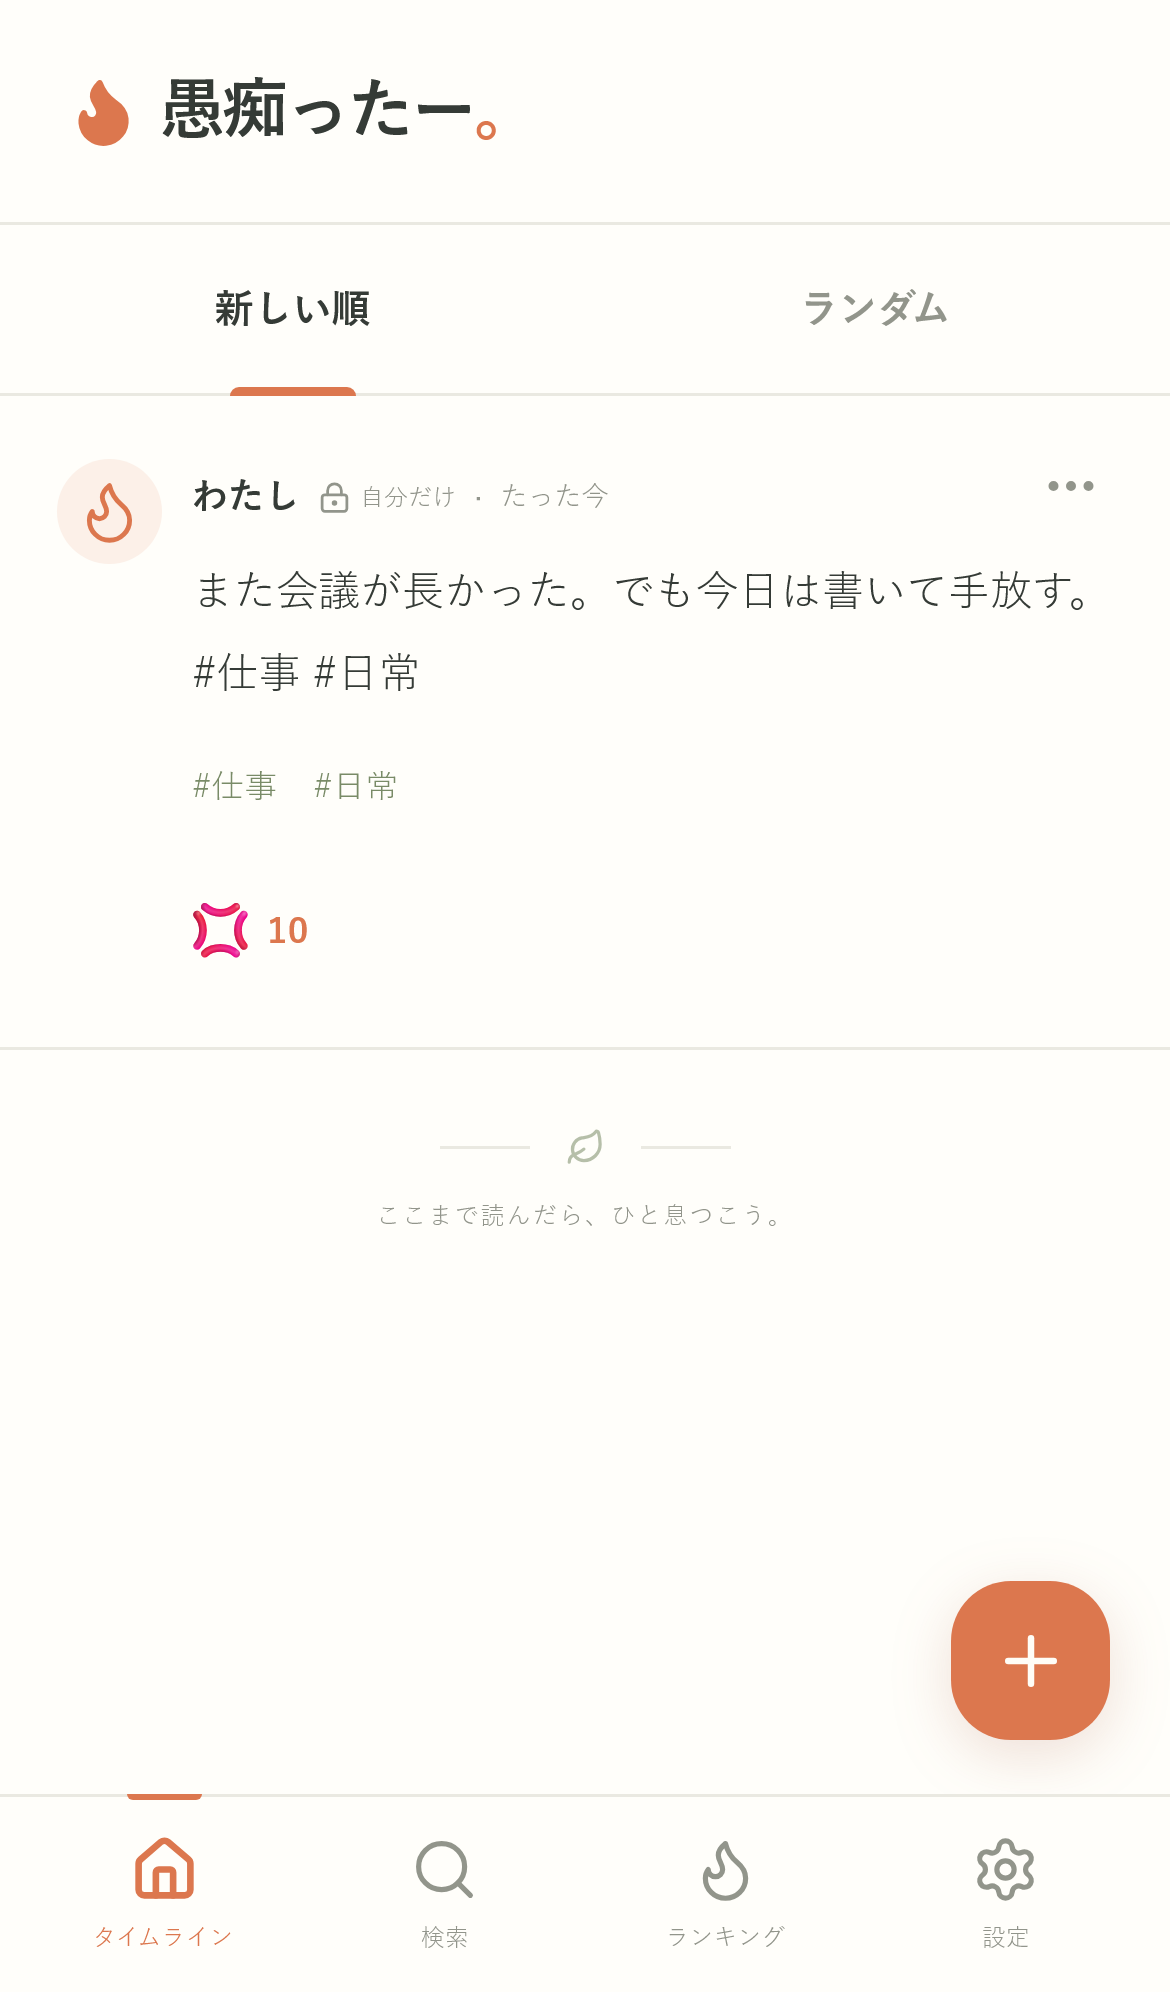
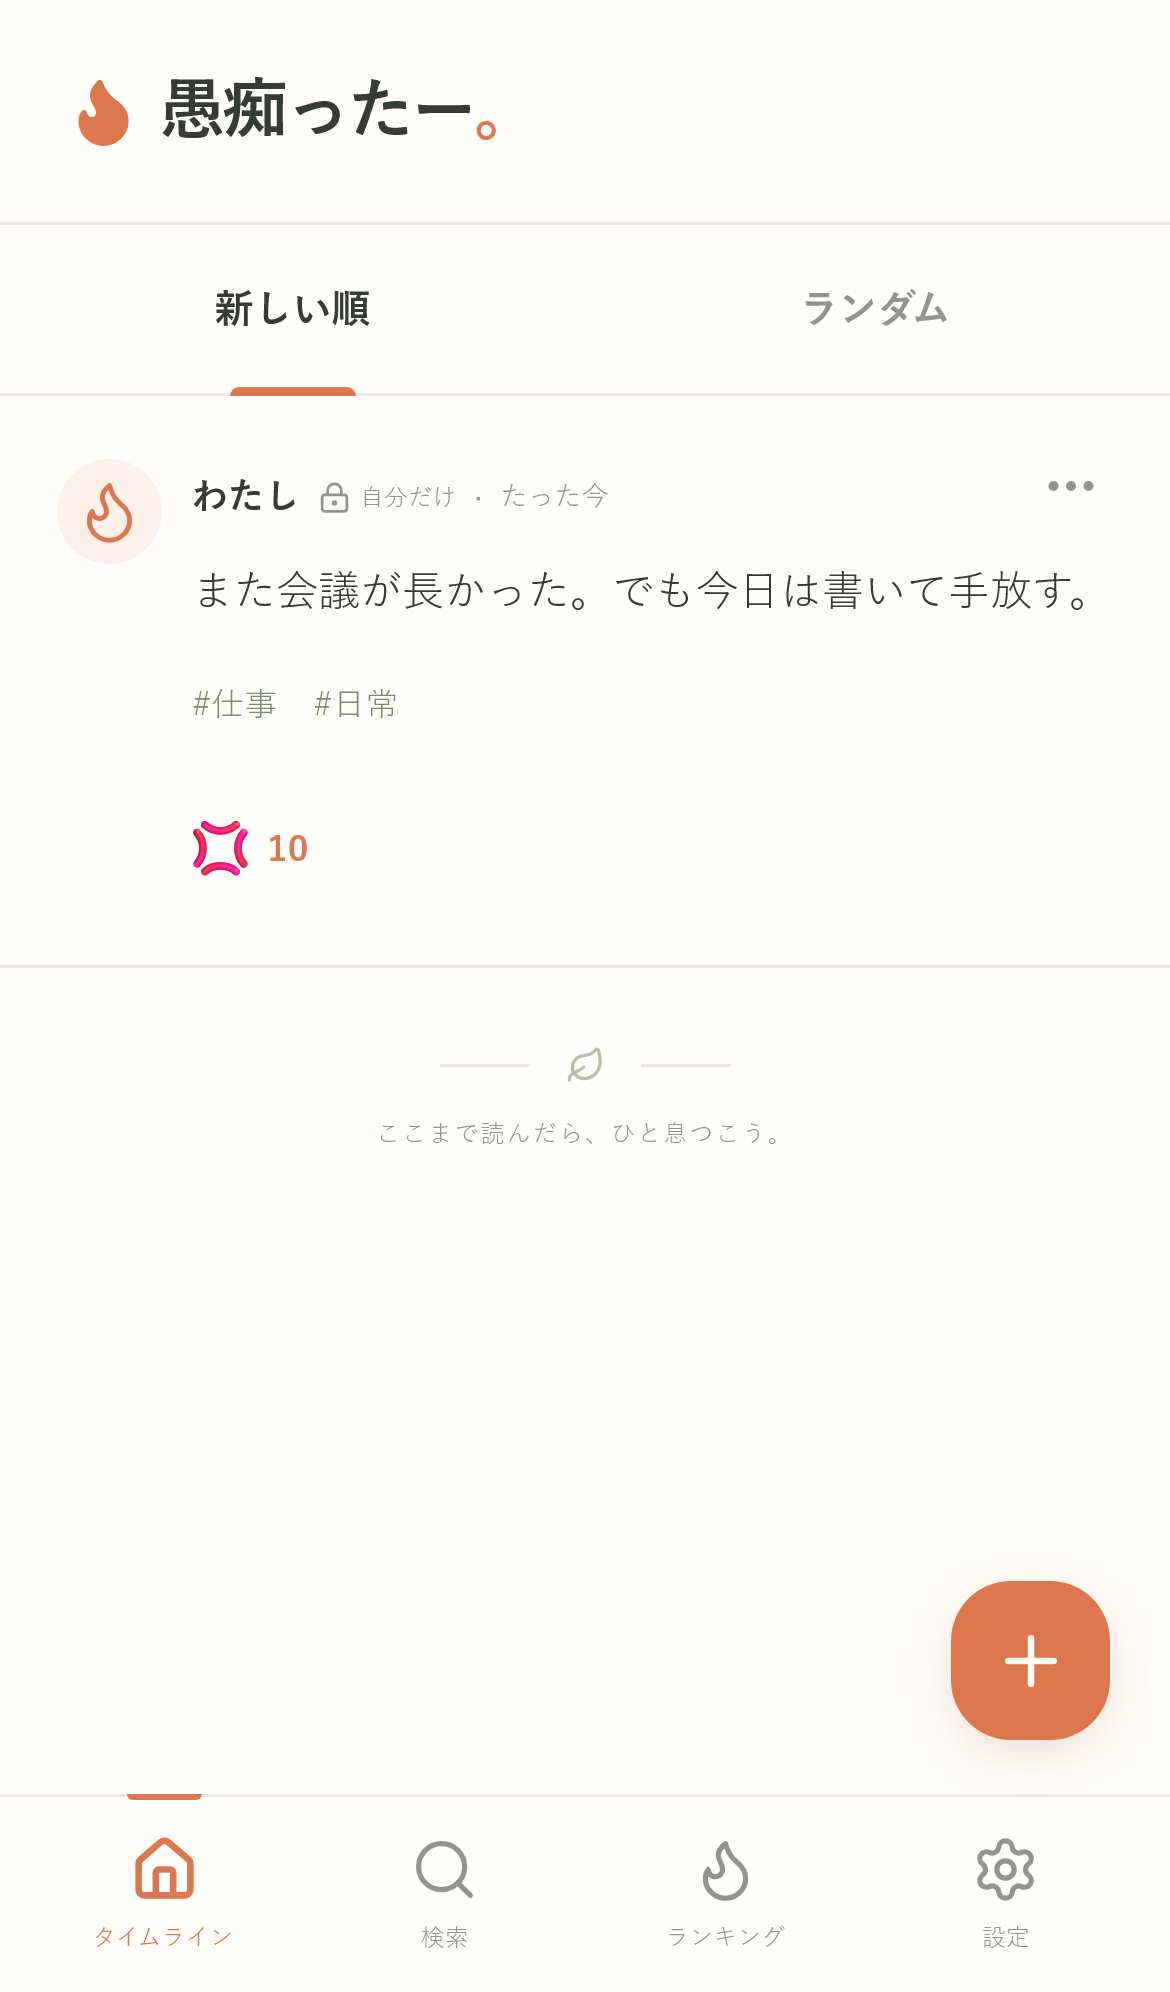
Show hashtags only in post tag lists

diff --git a/e2e/diary.spec.ts b/e2e/diary.spec.ts
@@ -11,7 +11,10 @@ function visibleButton(page: Page, name: string) {
 }
 
 function postCard(page: Page, body: string) {
-  return page.getByRole('article').filter({ hasText: body });
+  // These fixtures append tags after " #"; identify the card by its prose,
+  // independently of how the application parses or renders hashtag tokens.
+  const prose = body.split(' #', 1)[0];
+  return page.getByRole('article').filter({ has: page.locator('.post-body').filter({ hasText: prose }) });
 }
 
 async function expectNoHorizontalOverflow(page: Page) {
@@ -29,7 +32,7 @@ async function openComposer(page: Page) {
   return dialog;
 }
 
-async function submitPost(page: Page, body: string) {
+async function submitPost(page: Page, body: string, prose = body) {
   const dialog = await openComposer(page);
   const input = dialog.getByRole('textbox', { name: '今の気持ち', exact: true });
   await expect(input).toBeEditable();
@@ -39,7 +42,7 @@ async function submitPost(page: Page, body: string) {
   await expect(submit).toBeEnabled();
   await submit.click();
   await expect(dialog).not.toBeVisible();
-  await expect(postCard(page, body)).toHaveCount(1);
+  await expect(postCard(page, prose)).toHaveCount(1);
 }
 
 async function storedPosts(page: Page): Promise<StoredPost[]> {
@@ -103,6 +106,8 @@ test('a fresh diary persists text, tags, and every anger tap after reload', asyn
   const body = 'また会議が長かった。でも今日は書いて手放す。 #仕事 #日常';
   await submitPost(page, body);
   const card = postCard(page, body);
+  await expect(card.locator('.post-body')).toHaveText('また会議が長かった。でも今日は書いて手放す。');
+  await expect(card.locator('.post-tags').getByRole('button')).toHaveText(['#仕事', '#日常']);
   const angerButton = card.getByRole('button', { name: 'イライラを1増やす', exact: true });
   for (let tap = 0; tap < 10; tap += 1) await angerButton.click();
 
@@ -312,8 +317,10 @@ test('timeline tabs show newest posts or a stable random selection of every post
 
 test('search and ranking find the locally written diary entries', async ({ page }) => {
   await page.goto('./');
-  const workBody = '電車も会議もぎゅうぎゅうだった。 #仕事 #日常';
-  const otherBody = '買ったアイスが帰り道で溶けた。 #おやつ';
+  const workProse = '電車も会議もぎゅうぎゅうだった。';
+  const otherProse = '買ったアイスが帰り道で溶けた。';
+  const workBody = `${workProse} #仕事 #日常`;
+  const otherBody = `${otherProse} #おやつ`;
   await submitPost(page, workBody);
   await submitPost(page, otherBody);
   for (let tap = 0; tap < 3; tap += 1) {
@@ -326,7 +333,7 @@ test('search and ranking find the locally written diary entries', async ({ page 
   const searchSort = page.getByRole('combobox', { name: '並び順', exact: true });
   await expect(searchSort).toBeVisible();
   await searchSort.selectOption('oldest');
-  await expect(page.getByRole('article')).toContainText([workBody, otherBody]);
+  await expect(page.getByRole('article')).toContainText([workProse, otherProse]);
   const search = page.getByLabel('日記を検索', { exact: true });
   await search.fill('ぎゅうぎゅう');
   await expect(postCard(page, workBody)).toBeVisible();
@@ -336,7 +343,7 @@ test('search and ranking find the locally written diary entries', async ({ page 
   await expect(postCard(page, workBody)).toHaveCount(0);
 
   await visibleButton(page, 'イライラランキング').click();
-  await expect(page.getByRole('article').first()).toContainText(workBody);
+  await expect(page.getByRole('article').first()).toContainText(workProse);
   await expect(postCard(page, workBody).getByText('3', { exact: true })).toBeVisible();
 });
 
@@ -350,6 +357,7 @@ test('editing updates the stored text and tags, and deletion requires confirmati
   await postCard(page, original).getByRole('button', { name: '投稿のメニュー', exact: true }).click();
   await visibleButton(page, '編集').click();
   const editor = page.getByRole('dialog', { name: 'ひとりごとを編集', exact: true });
+  await expect(editor.getByRole('textbox', { name: '今の気持ち', exact: true })).toHaveValue(original);
   await editor.getByRole('textbox', { name: '今の気持ち', exact: true }).fill(edited);
   await editor.getByRole('button', { name: '保存する', exact: true }).click();
   await expect(editor).not.toBeVisible();
@@ -375,6 +383,54 @@ test('editing updates the stored text and tags, and deletion requires confirmati
   await page.reload();
   await expect(page.getByRole('article')).toHaveCount(0);
   expect(await storedPosts(page)).toEqual([]);
+});
+
+test('post cards show each tag only in the colored tag list while preserving the original diary', async ({ page }) => {
+  await page.goto('./');
+  const inlineProse = '片づけたそばから、おもちゃが増える。';
+  const inlineBody = `${inlineProse} #育児`;
+  const newlineProse = '寝かしつけでもうひとがんばり。';
+  const newlineBody = `${newlineProse}\n#育児`;
+  await submitPost(page, inlineBody);
+  await submitPost(page, newlineBody, newlineProse);
+
+  for (const prose of [inlineProse, newlineProse]) {
+    const card = postCard(page, prose);
+    await expect(card.locator('.post-body')).toHaveText(prose);
+    await expect(card.getByText('#育児', { exact: true })).toHaveCount(1);
+    await expect(card.locator('.post-tags').getByRole('button', { name: '#育児', exact: true })).toBeVisible();
+  }
+  await expectNoHorizontalOverflow(page);
+  await page.screenshot({ path: test.info().outputPath('tags-single-display.png'), fullPage: true });
+
+  const composer = await openComposer(page);
+  await composer.getByRole('textbox', { name: '今の気持ち', exact: true }).fill('#仕事');
+  await composer.getByRole('button', { name: '吐き出す', exact: true }).click();
+  await expect(composer).not.toBeVisible();
+  await expect(page.getByRole('article')).toHaveCount(3);
+  const tagOnlyCard = page.getByRole('article').first();
+  await expect(tagOnlyCard.locator('.post-body')).toHaveCount(0);
+  await expect(tagOnlyCard.locator('.post-tags').getByRole('button')).toHaveText(['#仕事']);
+  expect(await storedPosts(page)).toEqual(expect.arrayContaining([
+    expect.objectContaining({ body: inlineBody, tags: ['育児'] }),
+    expect.objectContaining({ body: newlineBody, tags: ['育児'] }),
+    expect.objectContaining({ body: '#仕事', tags: ['仕事'] }),
+  ]));
+
+  await postCard(page, inlineProse).locator('.post-tags').getByRole('button', { name: '#育児', exact: true }).click();
+  await expect(page.getByRole('button', { name: 'タグの絞り込みを解除', exact: true })).toBeVisible();
+  await expect(page.getByRole('article')).toHaveCount(2);
+  await expect(page.getByRole('article').locator('.post-body')).toHaveText([newlineProse, inlineProse]);
+  await postCard(page, inlineProse).getByRole('button', { name: '投稿のメニュー', exact: true }).click();
+  await visibleButton(page, '編集').click();
+  const editor = page.getByRole('dialog', { name: 'ひとりごとを編集', exact: true });
+  await expect(editor.getByRole('textbox', { name: '今の気持ち', exact: true })).toHaveValue(inlineBody);
+  await editor.getByRole('button', { name: '閉じる', exact: true }).click();
+  await page.reload();
+  await expect(page.getByRole('article')).toHaveCount(3);
+  await expect(postCard(page, inlineProse).locator('.post-body')).toHaveText(inlineProse);
+  await expect(postCard(page, newlineProse).locator('.post-body')).toHaveText(newlineProse);
+  await expect(page.getByRole('article').first().locator('.post-body')).toHaveCount(0);
 });
 
 test('the cached production app reopens, reads, and writes while offline without external requests', async ({ page, context, baseURL }) => {

diff --git a/src/App.tsx b/src/App.tsx
@@ -2,7 +2,7 @@ import { useEffect, useMemo, useRef, useState, type FormEvent, type ReactNode } 
 import { liveQuery } from 'dexie';
 import { useRegisterSW } from 'virtual:pwa-register/react';
 import { ArrowDownWideNarrow, ArrowUpRight, Check, ChevronRight, Download, Flame, Hash, Home, Leaf, LockKeyhole, Monitor, Moon, MoreHorizontal, Pencil, Plus, Search, Settings, ShieldCheck, Sun, Trash2, Trophy, WifiOff, X } from 'lucide-react';
-import { compareAnger, createPost, db, deletePost, incrementAnger, incrementPostAnger, normalizeTag, totalAnger, updatePost, type Post } from './data';
+import { compareAnger, createPost, db, deletePost, incrementAnger, incrementPostAnger, normalizeTag, stripTagsForDisplay, totalAnger, updatePost, type Post } from './data';
 import { createTimelineSeed, orderTimeline, type TimelineMode } from './data/timeline';
 import { getTagUsage, hasBodyTag } from './data/tags';
 
@@ -62,6 +62,7 @@ function PostCard({ post, rank, onTag, onEdit, onDelete, onError }: { post: Post
   const [menuOpen, setMenuOpen] = useState(false);
   const [pulse, setPulse] = useState(0);
   const menuRef = useRef<HTMLDivElement>(null);
+  const displayBody = stripTagsForDisplay(post.body);
   useEffect(() => {
     if (!menuOpen) return;
     const close = (event: PointerEvent) => { if (!menuRef.current?.contains(event.target as Node)) setMenuOpen(false); };
@@ -75,7 +76,7 @@ function PostCard({ post, rank, onTag, onEdit, onDelete, onError }: { post: Post
     <div className="avatar"><Flame size={23} strokeWidth={1.7} /></div>
     <div className="post-main">
       <div className="post-head"><span className="post-author">わたし</span><span className="post-private"><LockKeyhole size={11} /> 自分だけ</span><span className="time-dot">·</span><time dateTime={new Date(post.createdAt).toISOString()} title={new Date(post.createdAt).toLocaleString('ja-JP')}>{timeLabel(post.createdAt)}</time><div className="post-menu" ref={menuRef}><button className="icon-button" aria-label="投稿のメニュー" aria-expanded={menuOpen} onClick={() => setMenuOpen(!menuOpen)}><MoreHorizontal size={20} /></button>{menuOpen && <div className="dropdown"><button onClick={() => { setMenuOpen(false); onEdit(post); }}><Pencil size={16} />編集</button><button className="danger-text" onClick={() => { setMenuOpen(false); onDelete(post); }}><Trash2 size={16} />削除</button></div>}</div></div>
-      <p className="post-body">{post.body}</p>
+      {displayBody && <p className="post-body">{displayBody}</p>}
       {post.tags.length > 0 && <div className="post-tags">{post.tags.map(tag => <button key={normalizeTag(tag)} onClick={() => onTag(tag)}>#{tag}</button>)}</div>}
       <div className="post-footer"><button className={`anger-button ${post.angerCount !== '0' ? 'has-anger' : ''}`} aria-label="イライラを1増やす" onClick={tap}><span key={pulse} className={pulse ? 'anger-pop' : ''}><AngerIcon /></span><span className="anger-value">{numberLabel(post.angerCount)}</span><span className="tap-hint">わかる、あのイライラ</span></button></div>
     </div>

diff --git a/src/data/posts.test.ts b/src/data/posts.test.ts
@@ -4,6 +4,7 @@ import {
   extractTags,
   incrementAnger,
   normalizePostBody,
+  stripTagsForDisplay,
   totalAnger,
 } from './posts';
 
@@ -45,5 +46,20 @@ describe('post text', () => {
   it('rejects empty content and keeps meaningful whitespace inside the body', () => {
     expect(() => normalizePostBody(' \n\t　')).toThrow();
     expect(normalizePostBody('  一行目\n\n  二行目  ')).toBe('一行目\n\n  二行目');
+  });
+
+  it('shows prose without inline tags or tag-only lines, keeping original paragraph spacing', () => {
+    expect(stripTagsForDisplay('寝てほしい #育児')).toBe('寝てほしい');
+    expect(stripTagsForDisplay('はよねろ\n#育児')).toBe('はよねろ');
+    expect(stripTagsForDisplay('前半 #仕事 #日常 後半')).toBe('前半 後半');
+    expect(stripTagsForDisplay('一行目\n\n  二行目\n＃育児')).toBe('一行目\n\n  二行目');
+    expect(stripTagsForDisplay('上\r\n#育児\r\n下')).toBe('上\n下');
+  });
+
+  it('uses the saved tag syntax, leaving ordinary hash symbols and non-tag text intact', () => {
+    expect(stripTagsForDisplay('＃Ｃｏｆｆｅｅ #cafe\u0301 #ひと休み_2')).toBe('');
+    expect(stripTagsForDisplay('本文  の空白\n  字下げ')).toBe('本文  の空白\n  字下げ');
+    expect(stripTagsForDisplay('C# や #、＃ は記号')).toBe('C# や #、＃ は記号');
+    expect(stripTagsForDisplay('今日は #仕事！明日は #休日。')).toBe('今日は ！明日は 。');
   });
 });

diff --git a/src/data/posts.ts b/src/data/posts.ts
@@ -80,6 +80,26 @@ export function extractTags(body: string): string[] {
   return tags;
 }
 
+/** Hide inline tags on cards only; retain the original body for editing and search. */
+export function stripTagsForDisplay(body: string): string {
+  return body.split(/\r\n?|\n/).flatMap(line => {
+    const parts: string[] = [];
+    let cursor = 0;
+    for (const match of line.matchAll(tagPattern)) {
+      parts.push(line.slice(cursor, match.index));
+      cursor = match.index + match[0].length;
+    }
+    if (cursor === 0) return [line];
+    parts.push(line.slice(cursor));
+    const text = parts.reduce((visible, part) => {
+      // Keep a separator between surrounding words without doubling its spaces.
+      return visible + (/[^\S\r\n]$/.test(visible) ? part.replace(/^[^\S\r\n]+/, '') : part);
+    }, '');
+    // A line used only for tags does not leave a blank gap in the card.
+    return text.trim() ? [text.trimEnd()] : [];
+  }).join('\n').trim();
+}
+
 export function normalizePostBody(body: string): string {
   if (typeof body !== 'string' || body.trim().length === 0) {
     throw new Error('今の気持ちを入力してください。');

diff --git a/README.md b/README.md
@@ -24,6 +24,8 @@
 
 投稿カードの「端末に保存済み」チェックと更新表示は表示しません。保存失敗時のエラー表示は維持します。タグ履歴は現在保存している投稿から集計し、同じ投稿内の同一タグは 1 回として数えます。選んだタグは本文のカーソル位置に入り、入力済みのタグは重複して追加できません。投稿の編集・削除に合わせて履歴も更新し、履歴専用の保存領域やデータ移行は追加しません。
 
+投稿カードの本文ではハッシュタグを非表示にし、下の色付きタグだけを表示します。タグをタップすると絞り込めます。保存した原文は維持し、編集フォームでは本文とタグを確認できます。
+
 ## 開発
 
 Node.js 22.20 以上の 22 系、または 24.12 以上と npm を使用します。
@@ -79,7 +81,7 @@ GitHub Pages の設定は [GitHub 公式ドキュメント](https://docs.github.
 
 ## 動作確認
 
-タグ履歴と投稿カード表示の変更後、2026 年 10 月 19 日に型チェック、基本テスト 35 件、本番ビルド、Chrome／WebKit の E2E 24 件が通過しました。E2E はすべて GitHub Pages 相当の `/guchitter/` サブパスで実行し、オフライン動作・manifest も確認しています。モバイル相当の投稿カードとタグ履歴は画面の目視確認も行いました。実行環境、過去の結果と再現手順は [検証記録](docs/VERIFICATION.md) を参照してください。配備状況は [GitHub Actions](https://github.com/cadmium2525/guchitter/actions/workflows/deploy.yml) で確認できます。
+本文と色付きタグの重複表示を解消した変更後、2026 年 10 月 20 日に型チェック、基本テスト 37 件、本番ビルド、Chrome／WebKit の E2E 27 件が通過しました。E2E はすべて GitHub Pages 相当の `/guchitter/` サブパスで実行し、オフライン動作・manifest も確認しています。モバイル相当の投稿カードは画面の目視確認も行いました。実行環境、過去の結果と再現手順は [検証記録](docs/VERIFICATION.md) を参照してください。配備状況は [GitHub Actions](https://github.com/cadmium2525/guchitter/actions/workflows/deploy.yml) で確認できます。
 
 自動テストとデスクトップ上のブラウザー確認だけでは、iPhone Safari・Android Chrome の動作確認は完了しません。実機の確認手順と未実施項目は [実機テスト表](docs/DEVICE-TESTS.md) にまとめています。
 

diff --git a/docs/VERIFICATION.md b/docs/VERIFICATION.md
@@ -1,5 +1,16 @@
 # 検証記録
 
+## タグの重複表示の解消
+
+2026-10-20 に検証。投稿カードの本文からタグを隠し、色付きのタグボタンだけを表示する。タグのみの行と空になる本文欄も表示しない。IndexedDB の原文・タグ・スキーマは維持し、編集フォームと検索には原文を使う。
+
+- 型チェック、基本テスト 37 件、本番ビルド・Service Worker 生成：PASS。
+- Chrome デスクトップ、Android 相当、WebKit / iPhone 相当：`/guchitter/` で E2E 計 27 件 PASS。
+- 行内・別行のタグ非表示、タグのみの投稿、色付きタグの絞り込み、原文保存・編集・再読み込み：E2E PASS。
+- 全角＃・Unicode タグ、改行・空白の扱い：基本テスト PASS。スマートフォン幅とデスクトップ幅の画像も目視確認した。
+- [スマートフォン幅のタグ表示](screenshots/tags-single-display-mobile.png)。架空のテスト日記を使用している。
+- iPhone Safari / Android Chrome 実機：NOT RUN。配備状況は [Actions](https://github.com/cadmium2525/guchitter/actions/workflows/deploy.yml) で確認する。
+
 ## カウンターアイコンの変更
 
 2026-10-20 に検証。投稿カード、投稿前、累計イライラのカウンターを 💢 に変更した。ロゴの炎は維持し、ランキングの説明文を表示に合わせた。保存データや加算処理は変更していない。
